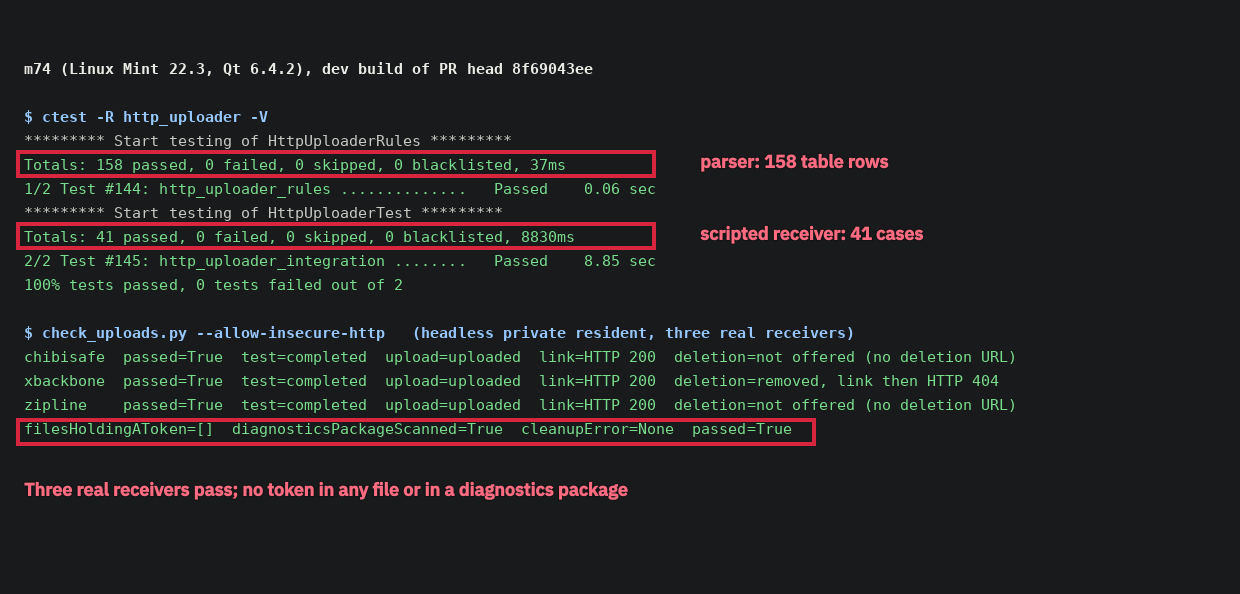
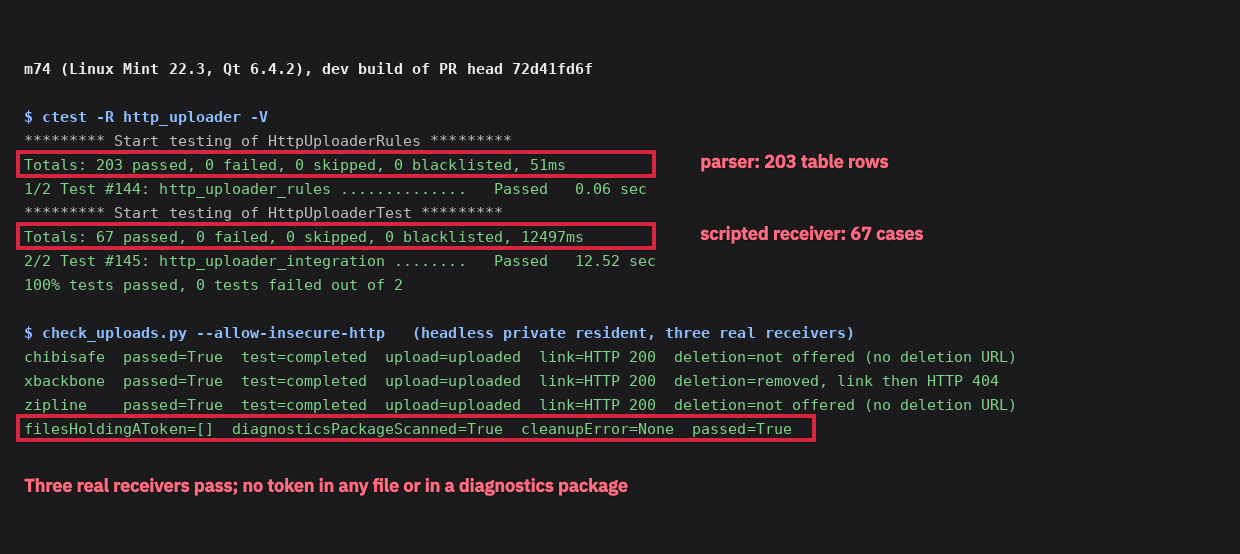
2026-11-09-custom-http-uploader: Custom HTTP uploader with ShareX .sxcu import (#1361): pictures and checks at the PR head
Source: put.gd-desktop@72d41fd6fcc744078593316754ef791c90ca0ac7
Evidence-Amend: PR #1371 fix round: picture 15 retaken at head 72d41fd6f, picture 16 added, numbers and tools updated

Changed region(s): [[0.0, 0.5523, 0.8274, 0.8899], [0.0, 0.1841, 0.7661, 0.5217], [0.0, 0.0921, 0.4903, 0.1534]]

diff --git a/records/2026-11-09-custom-http-uploader/tools/desktop1361.py b/records/2026-11-09-custom-http-uploader/tools/desktop1361.py
@@ -14,6 +14,7 @@ thing shown, and captures put.gd's window with ImageMagick `import`.
   --sxcu     folder with xbackbone.sxcu and zipline.sxcu from tools/lab/http_receivers
   --fixture  tests/fixtures/http_uploader_server.py of the same source
   --form-only  stop after the Settings form pictures (01 to 07)
+  --echo-only  only picture 16: a receiver that repeats the stored token in its link
 
 Needs xdotool, wmctrl, ImageMagick, python3-pil and firefox. Every link opens in Firefox with a
 throwaway profile through a temporary handler; ~/.config/mimeapps.list is restored byte for
@@ -37,6 +38,7 @@ parser.add_argument('--run', required=True)
 parser.add_argument('--sxcu', required=True)
 parser.add_argument('--fixture', required=True)
 parser.add_argument('--form-only', action='store_true', help='stop after the Settings form pictures (01 to 07)')
+parser.add_argument('--echo-only', action='store_true', help='only picture 16: a receiver that repeats the stored token in its link')
 options = parser.parse_args()
 
 HOME = Path.home()
@@ -226,6 +228,16 @@ def main():
     w = window(pid=pid)
     frame = geometry(w)
     say('window', w, frame)
+
+    if options.echo_only:
+        document = cli('settings.get')['result']['document']
+        actions = {name: dict(action, shortcut='') for name, action in document['actions'].items()}  # no global shortcuts from this private resident
+        cli('settings.patch', {'patch': {'actions': actions}, 'expectedRevision': revision()})
+        png = R / 'own/putgd-custom-uploader-check.png'
+        image = Image.new('RGB', (640, 360), (24, 26, 30))
+        ImageDraw.Draw(image).text((40, 160), 'put.gd #1361 synthetic upload', fill=(244, 196, 48))
+        image.save(png)
+        return echoed(w, png)
 
     # 1. Add destination: the menu with the new type.
     click(w, 92, frame[3] - 74)
@@ -420,6 +432,37 @@ def main():
     park()
     shot('13-after-retry', w)
     (SHOTS / 'tmp-history.png').unlink(missing_ok=True)
+    echoed(w, png, base)
+
+
+def echoed(w, png, base=None):
+    """10. A receiver that repeats the stored token in the link it returns: the link is not
+    recorded or copied, and History says so. The token is never on screen."""
+    import urllib.request
+    if base is None:
+        procs['fixture'] = subprocess.Popen([sys.executable, options.fixture], stdout=subprocess.PIPE, text=True)
+        base = 'http://127.0.0.1:' + procs['fixture'].stdout.readline().strip()
+    scripted = R / 'own/echoing.sxcu'
+    scripted.write_text(json.dumps({'Version': '17.0.0', 'Name': 'Echoing receiver', 'DestinationType': 'ImageUploader, FileUploader', 'RequestMethod': 'POST', 'RequestURL': base + '/upload/json',
+                                    'Headers': {'Authorization': 'Bearer putgd-synthetic-uploader-token-not-real'}, 'Body': 'MultipartFormData', 'FileFormName': 'file',
+                                    'URL': '{json:files[0].url}', 'DeletionURL': '{json:files[0].delete}'}))
+    scripted.chmod(0o600)
+    added = cli('settings.importUploader', {'path': str(scripted), 'expectedRevision': revision(), 'profileId': 'echoing', 'credentialMode': 'session'})
+    say('echoing import', added['ok'], added['error'].get('code'))
+    request = urllib.request.Request(base + '/__rules', data=json.dumps({'rules': [{'call': 'upload', 'store': True, 'echo': 'url'}]}).encode(), headers={'Content-Type': 'application/json'}, method='POST')
+    urllib.request.urlopen(request, timeout=10).read()
+    record = upload(png, 'echoing')
+    detail = cli('history.detail', {'id': record['id']})['result']
+    held = 'putgd-synthetic-uploader-token-not-real' in json.dumps(detail) or 'putgd-synthetic-uploader-token-not-real' in json.dumps(record)
+    (SHOTS / 'echoed.json').write_text(json.dumps({'uploadStatus': record['uploadStatus'], 'error': (record.get('error') or {}).get('code', ''),
+                                                    'linkRecorded': bool((record.get('receipt') or {}).get('directUrl')), 'tokenInTheRecord': held}, indent=1))
+    say('echoed link:', record['uploadStatus'], (record.get('error') or {}).get('code', ''), 'token in the record:', held)
+    cli('ui.show', {'view': 'history'})
+    time.sleep(2)
+    cli('ui.history', {'action': 'select', 'ids': [record['id']]})
+    time.sleep(1.5)
+    park()
+    shot('16-link-holds-stored-value', w)
 
 
 try:

diff --git a/records/2026-11-09-custom-http-uploader/tools/panel1361.py b/records/2026-11-09-custom-http-uploader/tools/panel1361.py
@@ -1,0 +1,51 @@
+#!/usr/bin/env python3
+"""#1361: the test-results panel (picture 15), drawn from the real outputs of this build.
+
+  python3 panel1361.py --ctest FILE --check FILE --title TEXT --out FILE
+
+--ctest is the output of `ctest -R http_uploader -V`; --check the report of check_uploads.py.
+"""
+import argparse
+import json
+import re
+from pathlib import Path
+
+from PIL import Image, ImageDraw, ImageFont
+
+parser = argparse.ArgumentParser()
+parser.add_argument('--ctest', required=True)
+parser.add_argument('--check', required=True)
+parser.add_argument('--title', required=True)
+parser.add_argument('--out', required=True)
+options = parser.parse_args()
+
+mono = '/usr/share/fonts/truetype/dejavu/DejaVuSansMono.ttf'
+bold = '/usr/share/fonts/truetype/dejavu/DejaVuSansMono-Bold.ttf'
+regular, strong = ImageFont.truetype(mono, 15), ImageFont.truetype(bold, 15)
+WHITE, GREEN, BLUE, GREY = (236, 236, 236), (126, 211, 135), (140, 190, 255), (190, 190, 190)
+
+lines = [(options.title, WHITE, strong), ('', WHITE, regular), ('$ ctest -R http_uploader -V', BLUE, strong)]
+for line in Path(options.ctest).read_text().splitlines():
+    line = re.sub(r'^\d+: ', '', line)
+    if line.startswith('********* Start testing of'):
+        lines.append((line, GREY, regular))
+    elif line.startswith('Totals:') or re.match(r'^\s*\d+/\d+ Test\s+#\d+:', line) or '% tests passed' in line:
+        lines.append((re.sub(r'\s{2,}', '   ', line.strip()) if 'Test' in line and '#' in line else line.strip(), GREEN, regular))
+report = json.loads(Path(options.check).read_text())
+lines += [('', WHITE, regular), ('$ check_uploads.py --allow-insecure-http   (headless private resident, three real receivers)', BLUE, strong)]
+for entry in report['receivers']:
+    deletion = entry.get('deletion') or {}
+    removed = ('removed, link then HTTP %s' % deletion.get('linkStatusAfter')) if deletion.get('remoteStatus') == 'removed' else 'not offered (no deletion URL)' if deletion.get('offered') is False else str(deletion)
+    lines.append(('%-9s  passed=%s  test=%s  upload=%s  link=HTTP %s  deletion=%s' % (entry['receiver'], entry.get('passed'), (entry.get('test') or {}).get('state'),
+                                                                                    (entry.get('upload') or {}).get('uploadStatus'), (entry.get('upload') or {}).get('linkStatus'), removed), GREEN, regular))
+lines.append(('filesHoldingAToken=%s  diagnosticsPackageScanned=%s  cleanupError=%s  passed=%s' % (report['filesHoldingAToken'], report['diagnosticsPackageScanned'], report['cleanupError'], report['passed']), GREEN, regular))
+
+image = Image.new('RGB', (1240, 60 + 24 * len(lines) + 110), (27, 27, 30))
+draw = ImageDraw.Draw(image)
+rows = {}
+for index, (text, colour, font) in enumerate(lines):
+    y = 60 + 24 * index
+    draw.text((24, y), text, fill=colour, font=font)
+    rows[text[:24]] = y
+image.save(options.out)
+print(json.dumps({'size': image.size, 'rows': [[y, text[:60]] for (text, _, _), y in zip(lines, range(60, 60 + 24 * len(lines), 24))]}, indent=0))

diff --git a/records/2026-11-09-custom-http-uploader/README.md b/records/2026-11-09-custom-http-uploader/README.md
@@ -5,7 +5,11 @@ is a separate record made from the PR's CI packages.
 
 ## Build and host
 
-- Source: `feat/custom-http-uploader` at `8f69043ee` (PR #1371 head when taken).
+- Source: `feat/custom-http-uploader`. Pictures 01 to 14 were taken at `8f69043ee`. Pictures 15
+  and 16 and every number below were taken at `72d41fd6f`, the PR head after the review fix round
+  and the merge of `nightly` (cdac6e4b3). Between the two, no file of the Settings form or of
+  History changed what pictures 01 to 14 show: the fix round changed the worker, the import and
+  their tests, and the merge brought the image editor's changes.
 - Build: a dev build of that tree on **m74** (Linux Mint 22.3, Cinnamon, X11, Qt 6.4.2). The
   build tree has no git metadata, so the window's version reads `0.0.0-dev.unknown`.
 - Receivers: Zipline 4.8.3, Chibisafe 6.7.0 and XBackBone 3.8.2 in rootless Podman pods on
@@ -16,8 +20,11 @@ is a separate record made from the PR's CI packages.
 
 `results.json` has the numbers. In short:
 
-- `http_uploader_rules`: 158 passed, 0 failed. `http_uploader_integration` (production provider
-  and worker against the scripted loopback receiver): 41 passed, 0 failed.
+- `http_uploader_rules`: 203 passed, 0 failed. `http_uploader_integration` (production provider
+  and worker against the scripted loopback receiver): 67 passed, 0 failed. The whole suite on
+  m74: 145 of 146; `capture_process_integration` fails over SSH without a display (it needs the
+  X11 shortcut adapter) and is no file of this branch.
+- The dark catalog renders, and the surface map check and the secret-control pin check pass.
 - The three real receivers through a headless private resident (`check_uploads.py
   --allow-insecure-http`): Test connection, upload and link fetch pass for all three. XBackBone's
   upload is deleted through its deletion URL and the link then answers 404. Zipline and Chibisafe
@@ -28,6 +35,9 @@ is a separate record made from the PR's CI packages.
   storing the token, Test connection, an upload, the real Firefox (throwaway profile) loading the
   uploaded link, the prepared deletion and the deletion, an upload with no deletion URL, and a
   lost reply followed by an explicit Retry that leaves two copies on the scripted receiver.
+- A scripted receiver that repeats the stored token in the link it returns: the upload ends with
+  an unknown outcome (`http_link_holds_secret`), no link is recorded, and the token is in no part
+  of the History record.
 
 ## Pictures
 
@@ -53,7 +63,8 @@ and labels) were drawn with put.gd's own image editor through `putgd-cli` (`edit
 | `12-retry-may-duplicate.png` | A lost reply: outcome unknown, and the duplicate-on-retry notice |
 | `13-after-retry.png` | After Retry upload: uploaded, the notice gone, two copies on the receiver |
 | `14-no-deletion-url.png` | An upload to Zipline: no Delete button, and the reason |
-| `15-test-suites.png` | Terminal panel with the parser, scripted-receiver and real-receiver results |
+| `15-test-suites.png` | Panel with the parser, scripted-receiver and real-receiver results at `72d41fd6f` |
+| `16-link-holds-stored-value.png` | A receiver repeated the stored token in its link: not recorded, outcome unknown, the row named and not the value |
 
 `catalog-150/` has two renders of the same form from `putgd-ui-catalog` of the same build at
 150% text scale (synthetic catalog data).
@@ -65,5 +76,9 @@ and labels) were drawn with put.gd's own image editor through `putgd-cli` (`edit
   Allow plain HTTP box and Delete from destination), captures put.gd's window with ImageMagick,
   and opens the link in Firefox with a throwaway profile through a temporary handler;
   `~/.config/mimeapps.list` is restored byte for byte. Run under the m74 desktop lock.
-- `tools/headless-check.sh`: the real-receiver check against a headless resident.
+- `tools/desktop1361.py --echo-only` takes picture 16 alone, in about 30 seconds under the lock.
+- `tools/headless-check.sh`: the real-receiver check against a headless resident, then the dark
+  catalog with the surface map and pin checks.
+- `tools/panel1361.py`: draws picture 15 from the output of `ctest -R http_uploader -V` and the
+  report of `check_uploads.py`.
 - The token rows are shown masked and were never revealed; no picture or file here holds a token.
